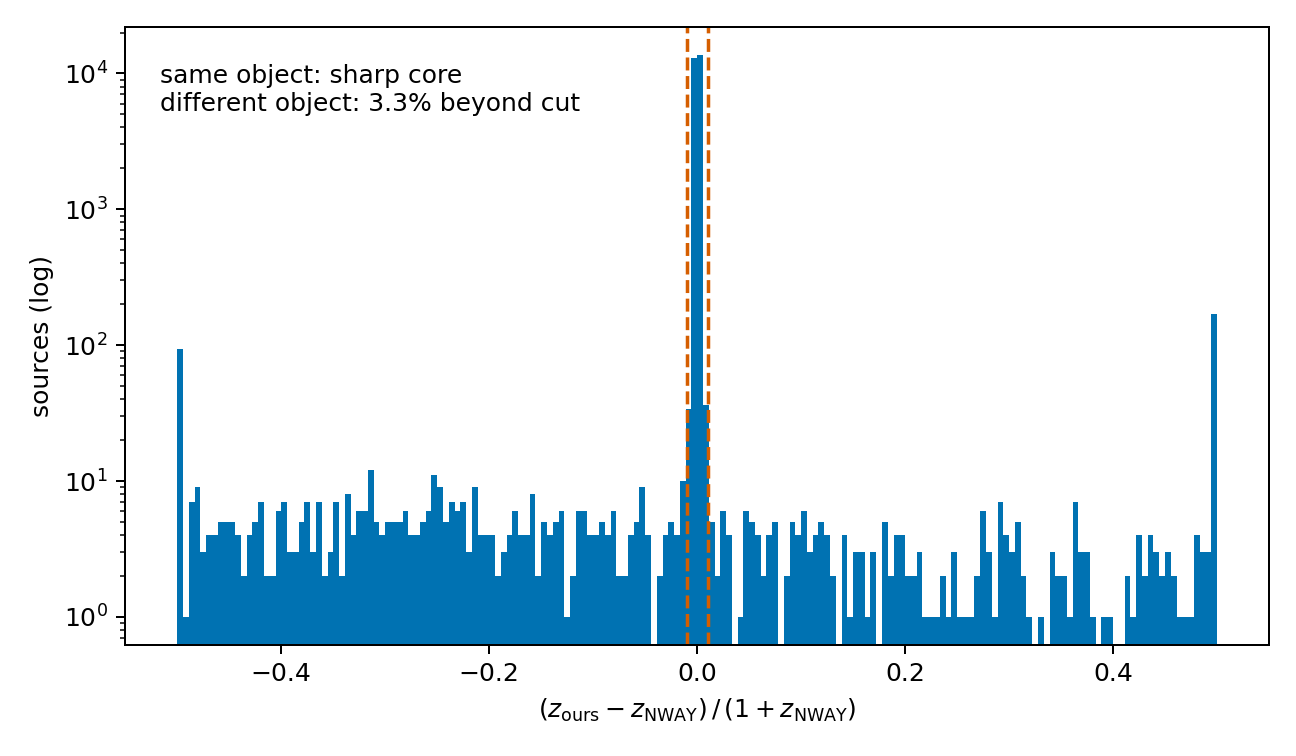
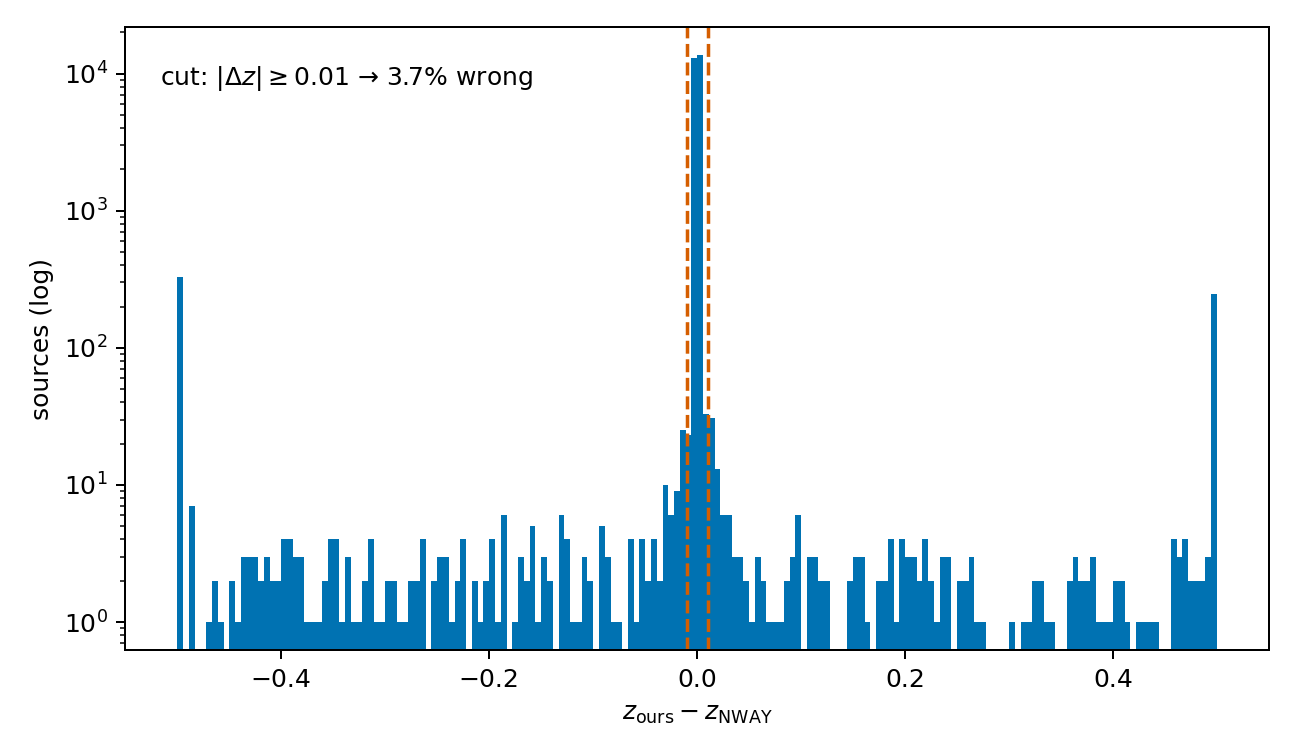
Truncate inject draws at 1.5 sigma per side; fix dz figure to the classifier's plain |z-zsp|
sample_split_normal now draws truncated half-normal magnitudes via inverse CDF
(hard cap verified at 1.5 sigma; side odds preserved). dz figure was dividing by
(1+z) while the classifier uses the plain difference (plain reproduces the 1,017
wrong count exactly; normalized would give 917). Split-normal slide figure now a
visibly asymmetric example (0.30/0.12), truncated, error-border labels
(F-LOWERR / ML / F+UPERR), and the mean marked to show mode != mean under
asymmetry. 42/42 tests.

Claude-Session: https://claude.ai/code/session_01UBstgpgc5mhfYM5hW6yEdG

diff --git a/shareable_aion_flow/normalizing_flow.py b/shareable_aion_flow/normalizing_flow.py
@@ -36,13 +36,23 @@ def split_normal_log_kernel(
     return -0.5 * (residual / sig) ** 2 + log_norm
 
 
-def sample_split_normal(sig_lo: torch.Tensor, sig_hi: torch.Tensor) -> torch.Tensor:
-    """Draw noise ``eps ~ split-normal(mode 0; lower width sig_lo, upper width sig_hi)``.
+def sample_split_normal(
+    sig_lo: torch.Tensor, sig_hi: torch.Tensor, max_sigma: float = 1.5
+) -> torch.Tensor:
+    """Draw ``eps ~ split-normal(mode 0; widths sig_lo/sig_hi)``, truncated at
+    ``max_sigma`` per side.
 
     Used by ``--error-mode inject``: pick the lower half with probability
-    ``sig_lo/(sig_lo+sig_hi)`` and draw a half-normal of that side's width.
+    ``sig_lo/(sig_lo+sig_hi)`` (truncation removes the same mass fraction from
+    each side, so the side odds are unchanged), then draw the magnitude from a
+    truncated half-normal via the inverse CDF:
+    ``|eps| = sigma * sqrt(2) * erfinv(u * erf(max_sigma/sqrt(2)))``.
+    Truncation keeps single draws out of the far tail (relevant for the
+    huge-sigma HR rows) at the cost of a slightly narrower effective kernel.
     """
-    z = torch.randn_like(sig_lo).abs()
+    u = torch.rand_like(sig_lo)
+    cap = math.erf(max_sigma / math.sqrt(2.0))
+    z = math.sqrt(2.0) * torch.erfinv(u * cap)
     take_lower = torch.rand_like(sig_lo) < (sig_lo / (sig_lo + sig_hi))
     return torch.where(take_lower, -sig_lo * z, sig_hi * z)
 

diff --git a/docs/make_slides.py b/docs/make_slides.py
@@ -152,10 +152,11 @@ def main() -> None:
         image_panel(fig, FIGS / "fig_split_normal.png", (0.04, 0.08, 0.55, 0.66))
         ax2 = fig.add_axes([0.62, 0.15, 0.36, 0.55]); ax2.axis("off")
         bullets(ax2, [
-            "built from catalog lo/hi limits;\n     central 68.3% exact by construction",
+            "catalog gives the error borders F−LOWERR,\n     F+UPERR → they ARE the ±1σ borders\n     of the split normal (in log space)",
+            "draws truncated at 1.5σ per side",
             "logM★ has no catalog σ →\n     class floor: 0.2 (GALAXY) / 0.3 (QSO) dex",
-            "eval: plain likelihood at observed y —\n     no σ used at evaluation",
-        ], fontsize=13, dy=0.22)
+            "eval: plain likelihood at observed y — no σ",
+        ], fontsize=12.5, dy=0.17)
         pdf.savefig(fig); plt.close(fig)
 
         # ---- 5b Band coverage

diff --git a/docs/decisions.md b/docs/decisions.md
@@ -18,7 +18,8 @@ wrong counterparts.
 counterpart catalog (A&A 704 A344, VizieR `J/A+A/704/A344/dr1ls10`) on
 `IAUName`, compare NWAY's chosen counterpart with ours per `targetid`.
 **Operational same-object test = spec-z agreement** (our `ls_id` vs their
-`LS10objid` packing could not be reconciled reliably): dz < 0.01, sitting in the
+`LS10objid` packing could not be reconciled reliably): **plain |z−zsp| < 0.01**
+(NOT (1+z)-normalized; verified to reproduce the 1,017 exactly), sitting in the
 valley of a strongly bimodal distribution (88.7% at dz<1e-4, ~3% at dz>0.1).
 Caveat: z-agreement is an identity *proxy* — distinct objects at equal z (pairs,
 group members) would pass as `correct`. Classes in `match_quality.csv`
@@ -94,7 +95,10 @@ failed fits → NaN'd in the sidecar. Loaders exclude non-finite-target rows.
   vectorized over nodes. Validated analytically: a N(0,1) flow convolved with a
   Gaussian kernel recovers N(0, 1+σ²).
 - `inject`: sample ε ~ split-normal per step, add to the standardized target
-  (documented as broadening, not deconvolution).
+  (documented as broadening, not deconvolution). **Draws truncated at 1.5σ per
+  side** (inverse-CDF truncated half-normals; side odds preserved) — keeps
+  single draws out of the far tail (huge-σ HR rows); slightly narrows the
+  effective kernel. Multi-draw: `--inject-samples 8`.
 - `none`: paper behavior; σ columns ignored.
 - σ enters standardized space as **σ/std** of the target standardizer.
 - **Eval consistency rule:** a convolve-trained checkpoint is *scored* through
